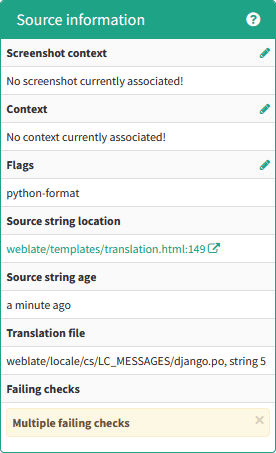
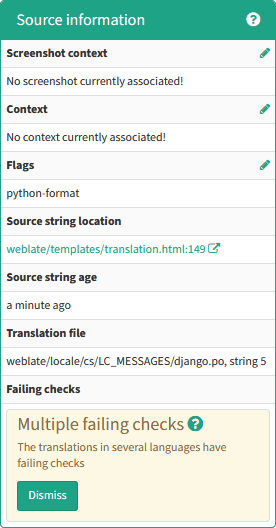
Update screenshots to 3.9 release

Changed region(s): [[0.0, 0.0, 1.0, 1.0], [0.9275, 0.2781, 0.9855, 0.3709], [0.9275, 0.1854, 0.9855, 0.2781]]

diff --git a/weblate_web/static/style-rtl.css b/weblate_web/static/style-rtl.css
@@ -1146,7 +1146,7 @@ section.about p {
 .inter-checks {
 	width: 500px;
 	position: absolute;
-	top: -65px;
+	top: -135px;
 	left: 20px;
 	color: #BFC3C7;
 	font-size: 26px;
@@ -1157,7 +1157,7 @@ section.about p {
 .inter-checks  .title {
     float: right;
     width: 200px;
-    padding-top: 80px;
+    padding-top: 150px;
 }
 .inter-context {
 	width: 220px;

diff --git a/weblate_web/static/style.css b/weblate_web/static/style.css
@@ -1146,7 +1146,7 @@ section.about p {
 .inter-checks {
 	width: 500px;
 	position: absolute;
-	top: -65px;
+	top: -135px;
 	right: 20px;
 	color: #BFC3C7;
 	font-size: 26px;
@@ -1157,7 +1157,7 @@ section.about p {
 .inter-checks  .title {
     float: left;
     width: 200px;
-    padding-top: 80px;
+    padding-top: 150px;
 }
 .inter-context {
 	width: 220px;
